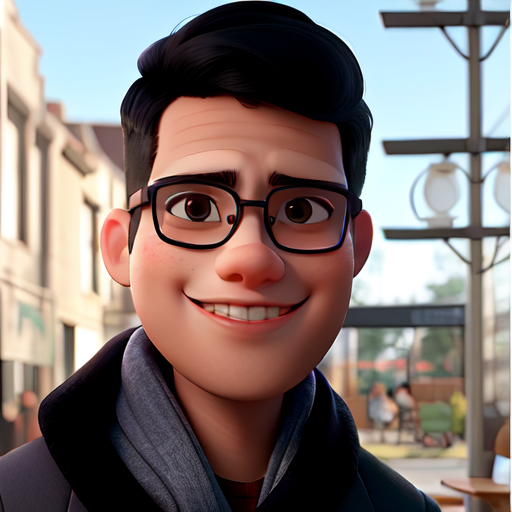
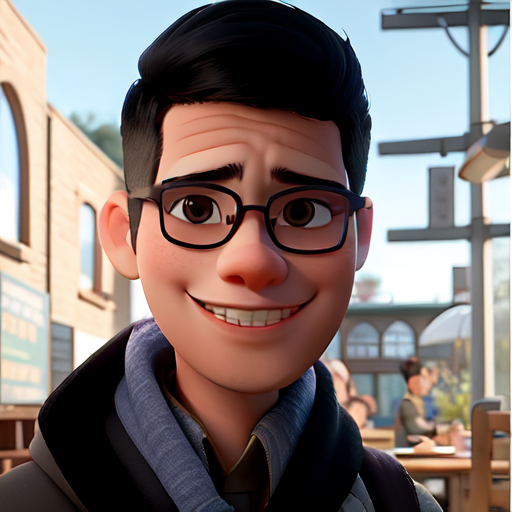
updating to use new endpoint, and adding customization

diff --git a/pixarizer.py b/pixarizer.py
@@ -39,7 +39,7 @@ def pixarize_image(upload, strength, seed):
     model_request = {
         "image": image_out_b64.decode("utf8"),
         "prompt": "masterpiece, best quality",
-        "negative_prompt": "EasyNegative, drawn by bad-artist, sketch by bad-artist-anime, (bad_prompt:0.8), (artist name, signature, watermark:1.4), (ugly:1.2), (worst quality, poor details:1.4), bad-hands-5, badhandv4, blurry",
+        "negative_prompt": "EasyNegative, drawn by bad-artist, sketch by bad-artist-anime, (bad_prompt:0.8), (artist name, signature, watermark:1.4), (ugly:1.2), (worst quality, poor details:1.4), bad-hands-5, badhandv4, blurry, nsfw",
         "model": "DisneyPixarCartoon_v10",
         "vae": "YOZORA.vae.pt",
         "sampler": "K_EULER_ANCESTRAL",
@@ -52,24 +52,24 @@ def pixarize_image(upload, strength, seed):
         "steps": 20
     }
     reply = requests.post(
-        f"https://pixarify-4jkxk521l3v1.octoai.cloud/predict",
+        f"https://cartoonizer-4jkxk521l3v1.octoai.cloud/predict",
         headers={"Content-Type": "application/json"},
         json=model_request
     )
 
     img_bytes = b64decode(reply.json()["completion"]["image_0"])
-    characterized = Image.open(BytesIO(img_bytes), formats=("png",))
+    cartoonized = Image.open(BytesIO(img_bytes), formats=("png",))
 
     col2.write("Transformed Image :magic_wand:")
-    col2.image(characterized)
+    col2.image(cartoonized)
     st.sidebar.markdown("\n")
-    st.sidebar.download_button("Download transformed image", convert_image(characterized), "characterized.png", "characterized/png")
+    st.sidebar.download_button("Download transformed image", convert_image(cartoonized), "cartoonized.png", "cartoonized/png")
 
 st.set_page_config(layout="wide", page_title="Cartoonizer")
 
 st.write("## Cartoonizer - Powered by OctoAI")
 st.markdown(
-    "Upload a photo and turn yourself into a CGI character in about 20s! Full quality images can be downloaded from the sidebar. This application is powered by OctoML's OctoAI compute service. The image to image transfer is achieved via the [Pixar Cartoon Type B](https://civitai.com/models/75650/disney-pixar-cartoon-type-b) checkpoint on CivitAI."
+    "Upload a photo and turn yourself into a CGI character in about 3s! Full quality images can be downloaded from the sidebar. This application is powered by OctoML's OctoAI compute service. The image to image transfer is achieved via the [Pixar Cartoon Type B](https://civitai.com/models/75650/disney-pixar-cartoon-type-b) checkpoint on CivitAI."
 )
 
 st.markdown(
@@ -86,15 +86,12 @@ col1, col2 = st.columns(2)
 my_upload = st.sidebar.file_uploader("Upload an image (works best on square photos)", type=["png", "jpg", "jpeg"])
 
 strength = st.slider(
-    "Select the transformation strength (lower: closer to original, higher: bigger departure from original, 4-5 being a good sweet spot)",
-    1, 10, 4)
+    "Select the transformation strength (lower: closer to original, higher: bigger departure from original, 5 being a good sweet spot)",
+    2, 8, 5)
 
 seed = 0
 if st.button('I\'m feeling lucky'):
     seed = random.randint(0, 1024)
-    st.write('Random seed: {}'.format(seed))
-else:
-    st.write('Random seed: {}'.format(seed))
 
 st.sidebar.write("## Upload and download :gear:")
 
